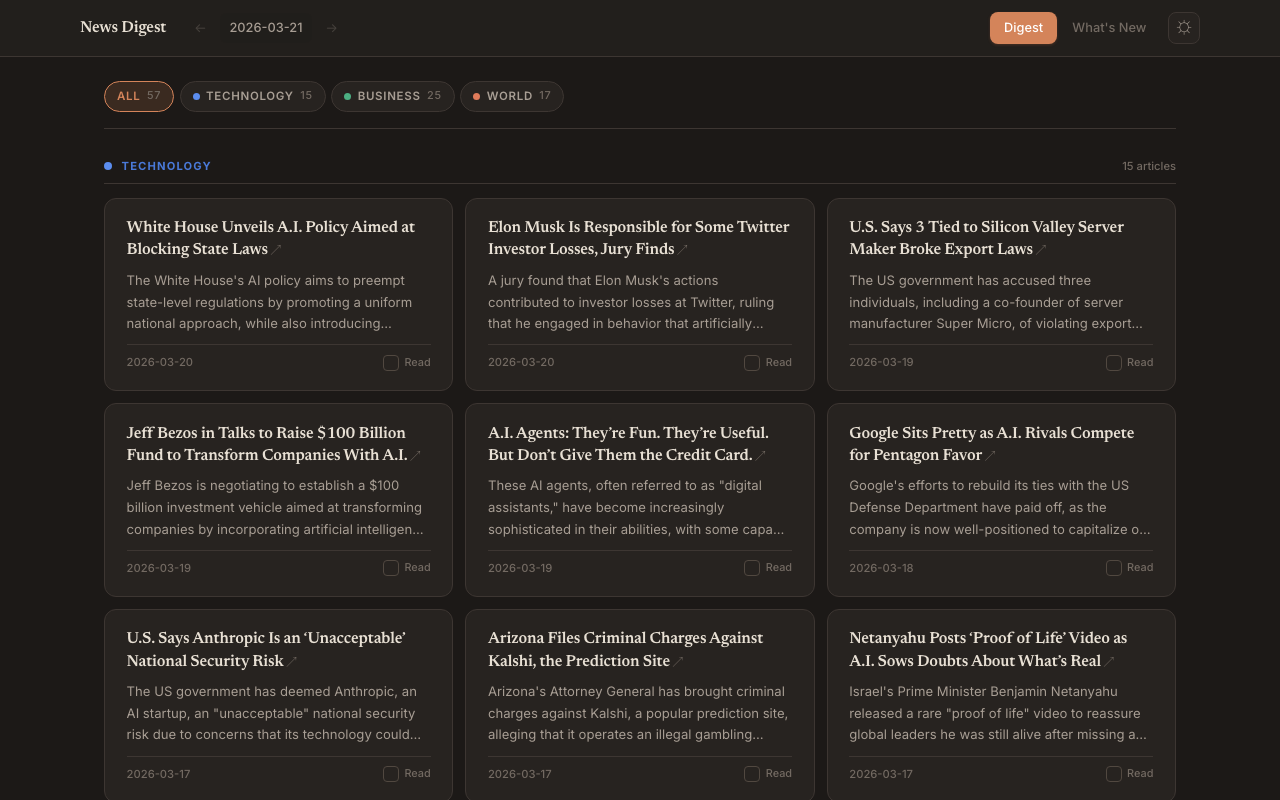
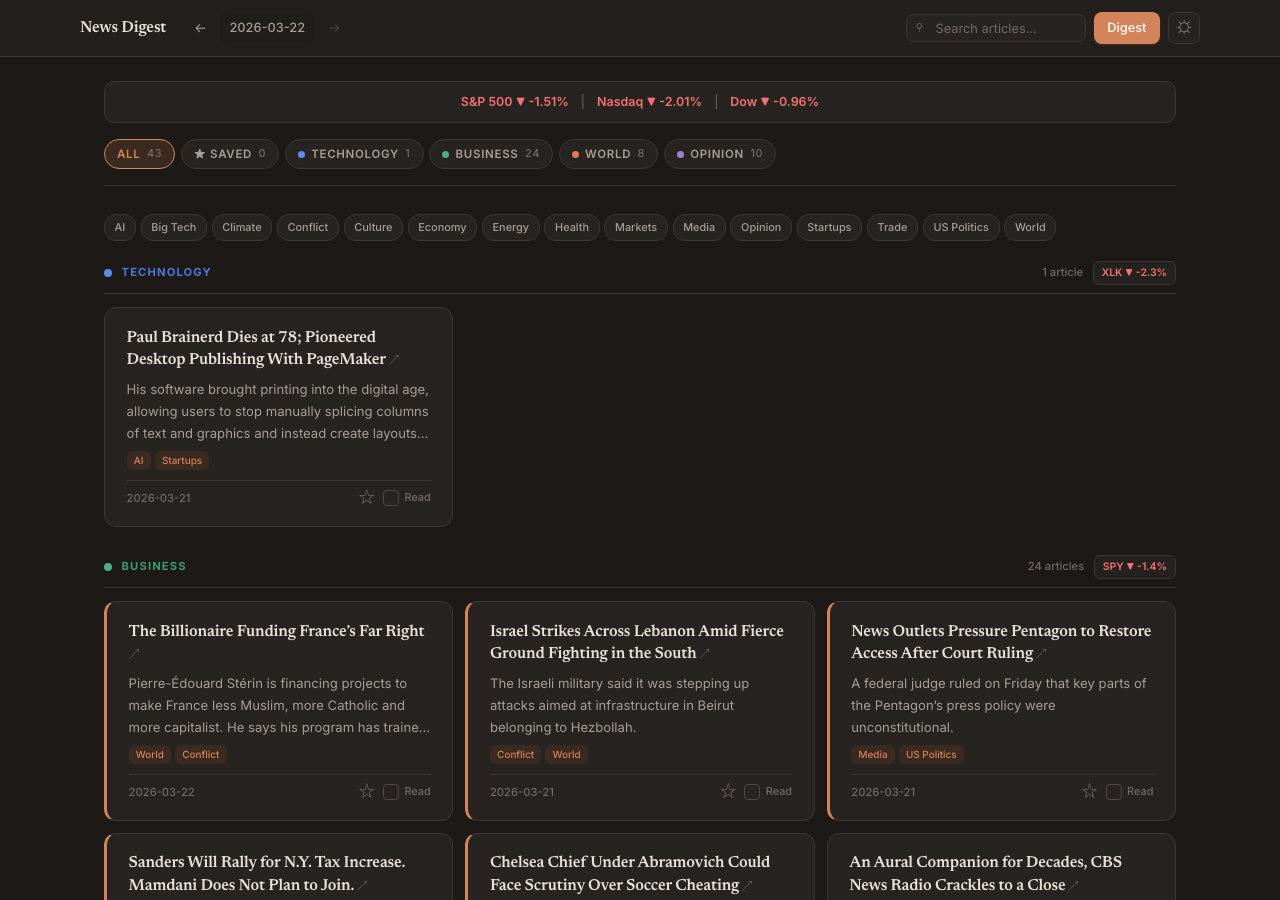
Update README and screenshots for tag/priority scoring
Rewrite README to describe tagging and priority scoring instead of
summarization/diffs. Retake all three screenshots showing the new
tag filter bar, tag chips on cards, and updated nav.

diff --git a/README.md b/README.md
@@ -1,6 +1,6 @@
 # News Digest
 
-A local news digest tool that fetches NYT articles, summarizes them with Ollama (Llama 3), and shows only new information each day — a "news diff" for personal use. Includes a web UI for browsing digests.
+A local news digest tool that fetches NYT articles, tags and priority-scores them with Ollama (Llama 3), and presents them in a filterable web UI — sorted by significance, not just recency. Includes market data, tag-based filtering, and email delivery.
 
 ![Light mode](screenshots/digest-light.png)
 
@@ -20,7 +20,7 @@ A local news digest tool that fetches NYT articles, summarizes them with Ollama 
    cd news-digest
    python3 -m venv .venv
    source .venv/bin/activate
-   pip install requests python-dotenv
+   pip install requests python-dotenv yfinance
    ```
 
 2. Add your NYT API key:
@@ -32,7 +32,6 @@ A local news digest tool that fetches NYT articles, summarizes them with Ollama 
 3. Install and run Ollama with Llama 3:
    ```bash
    ollama pull llama3
-   export OLLAMA_NUM_PARALLEL=4
    ollama serve
    ```
 
@@ -42,7 +41,7 @@ A local news digest tool that fetches NYT articles, summarizes them with Ollama 
 python digest.py
 ```
 
-Output goes to `output/YYYY-MM-DD.md`. Run it again the next day and it diffs against the previous day's summaries to surface only new information.
+Each article is tagged (from a fixed set of 15 topics like AI, Markets, Conflict) and priority-scored 1-5 by Ollama. Articles are deduplicated against the previous day. Output goes to `output/YYYY-MM-DD.md` and `data/YYYY-MM-DD.json`.
 
 ### Web UI
 
@@ -52,14 +51,16 @@ python app.py
 # Open http://localhost:5050
 ```
 
-Features: section filtering, read tracking, dark mode, article modal with full summaries.
+Features: section filtering, tag filtering, priority sorting (P4-5 get accent borders), read tracking, bookmarks, search, dark mode, article modal.
 
-## Benchmark
+### Email Digest
 
-Compare sequential vs parallel summarization:
-
-```bash
-python benchmark.py
+Set these in `.env` to receive a daily email:
+```
+EMAIL_ENABLED=true
+GMAIL_ADDRESS=you@gmail.com
+GMAIL_APP_PASSWORD=your-app-password
+DIGEST_EMAIL_TO=recipient@example.com
 ```
 
 ## Configuration
@@ -67,4 +68,6 @@ python benchmark.py
 Edit `config.py` to change:
 - Sections to follow (default: technology, business, world, opinion)
 - Keywords to filter articles per section
-- Ollama model and parallel workers
+- Ollama model (`OLLAMA_MODEL`)
+- Allowed tags (`ALLOWED_TAGS`) — the fixed set of tags the model can assign
+- Market indices and sector ETFs
